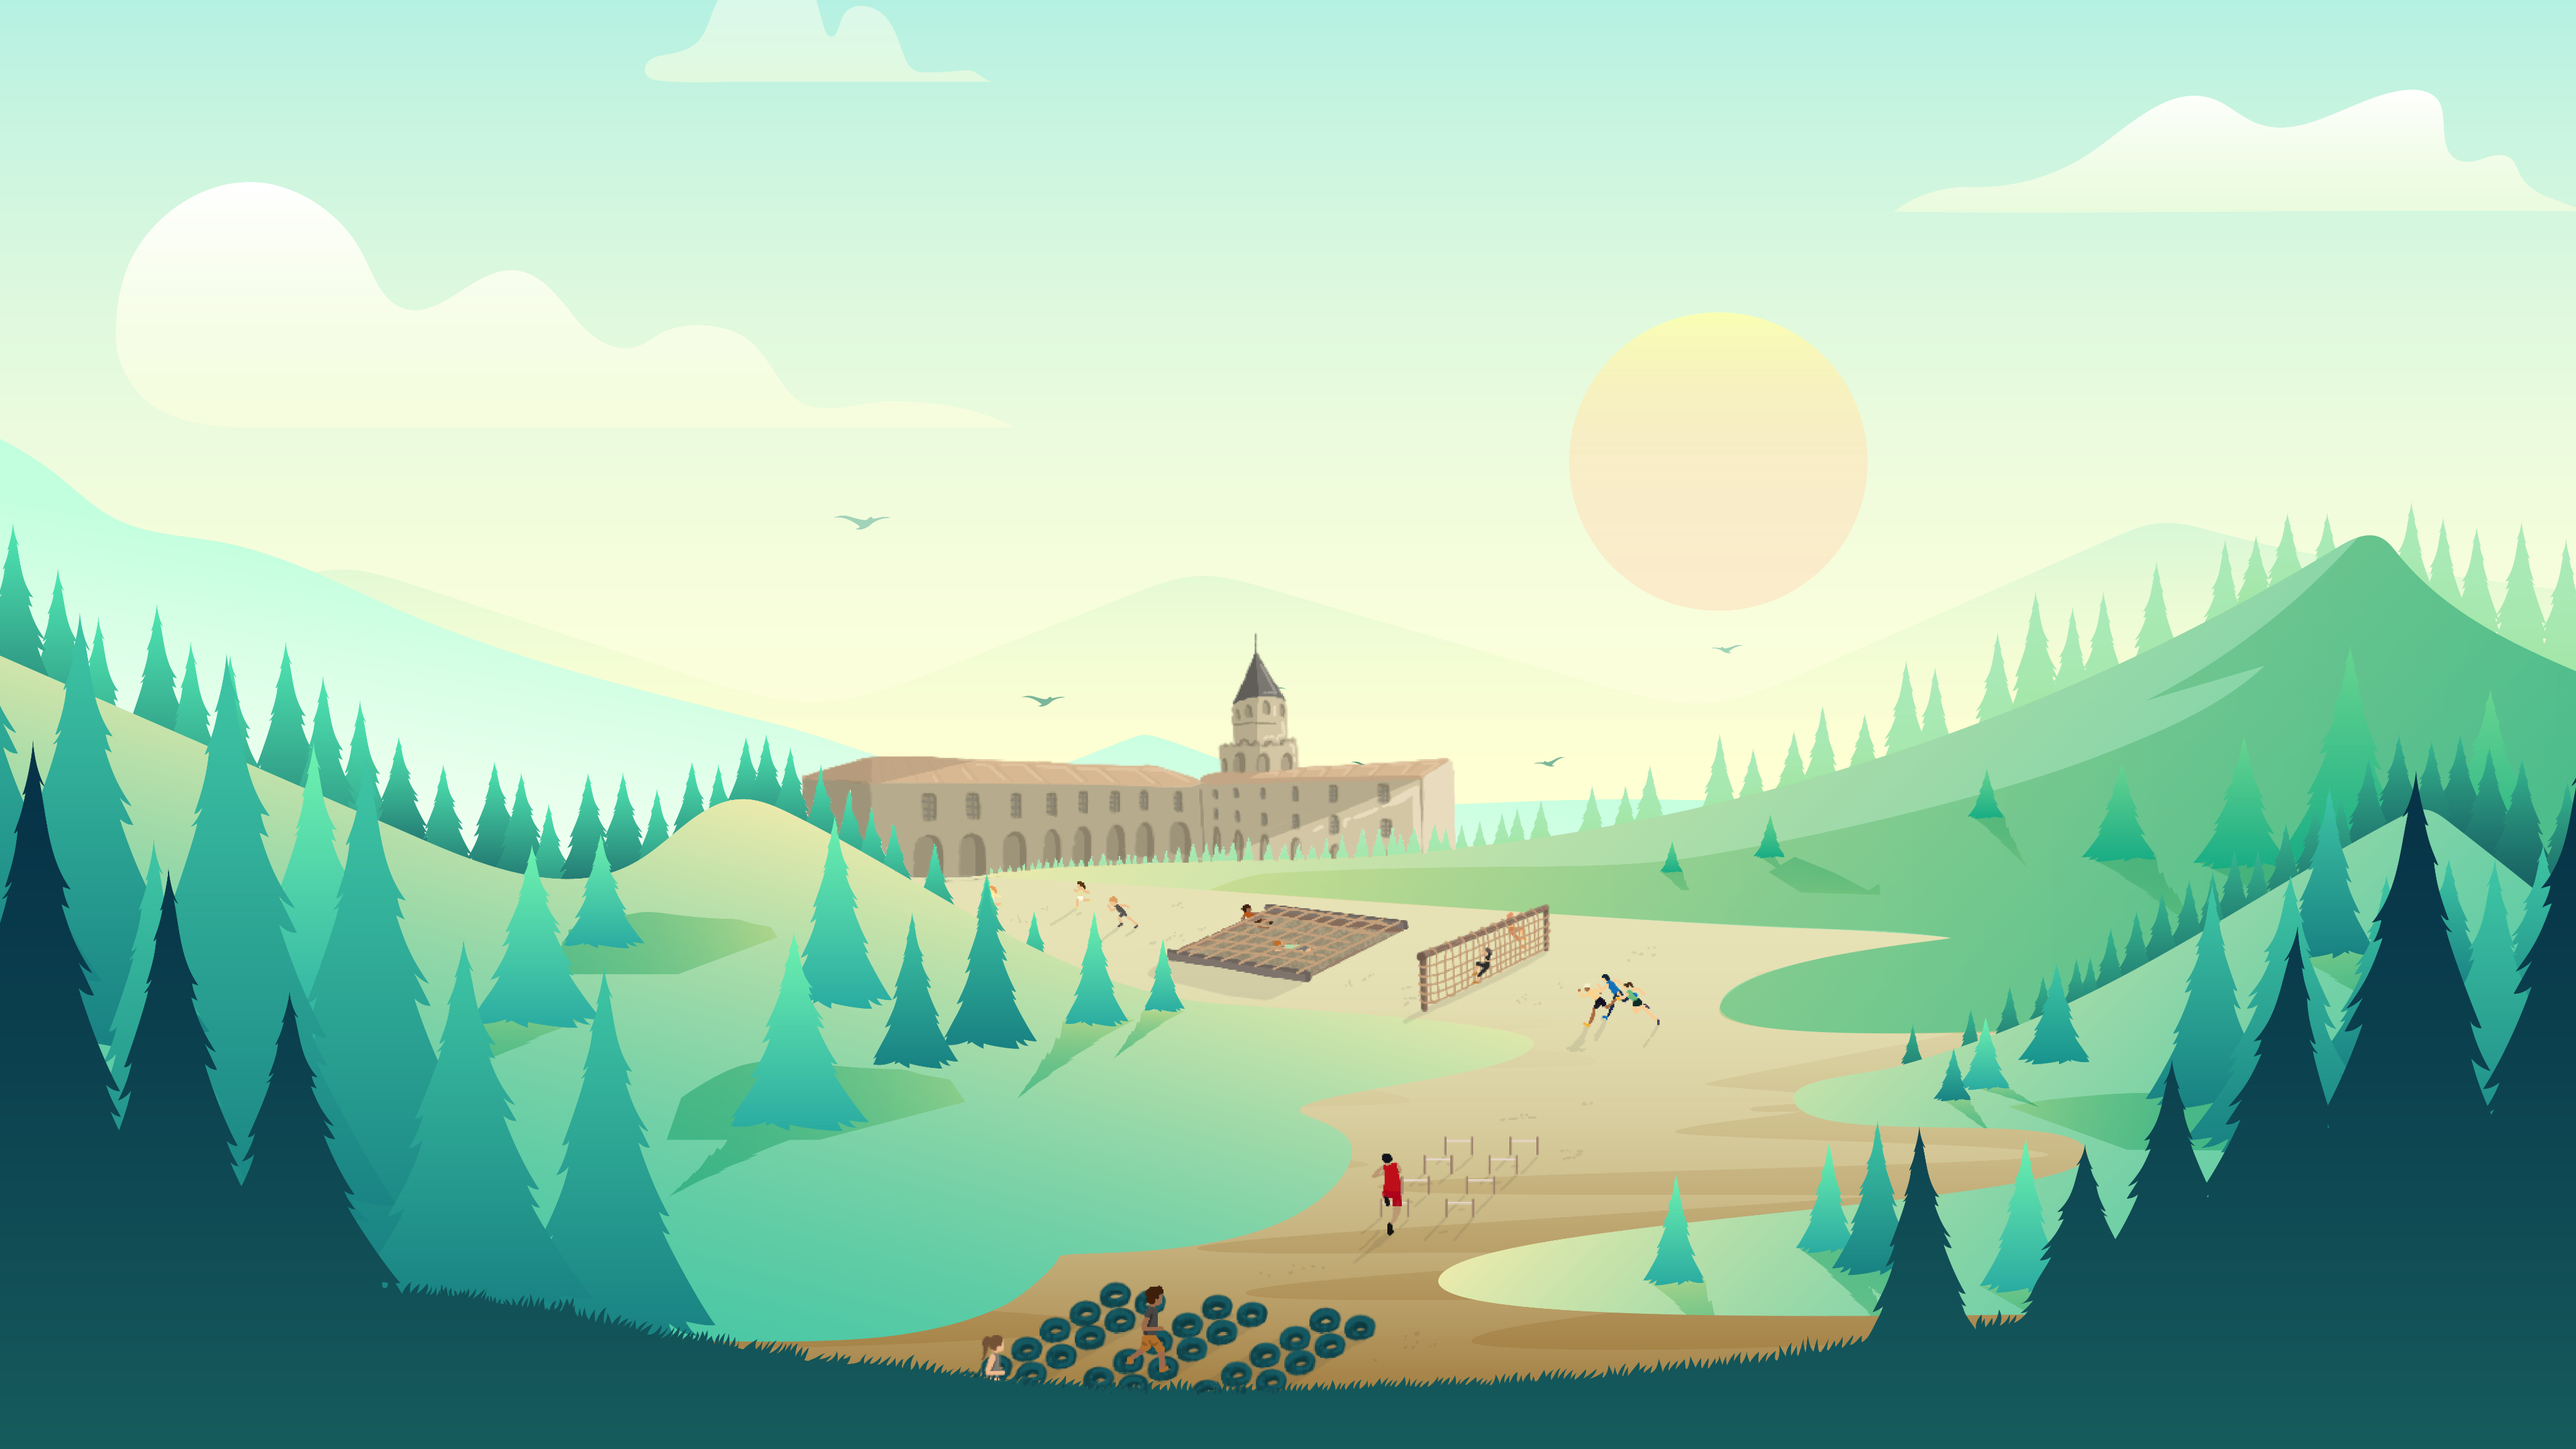
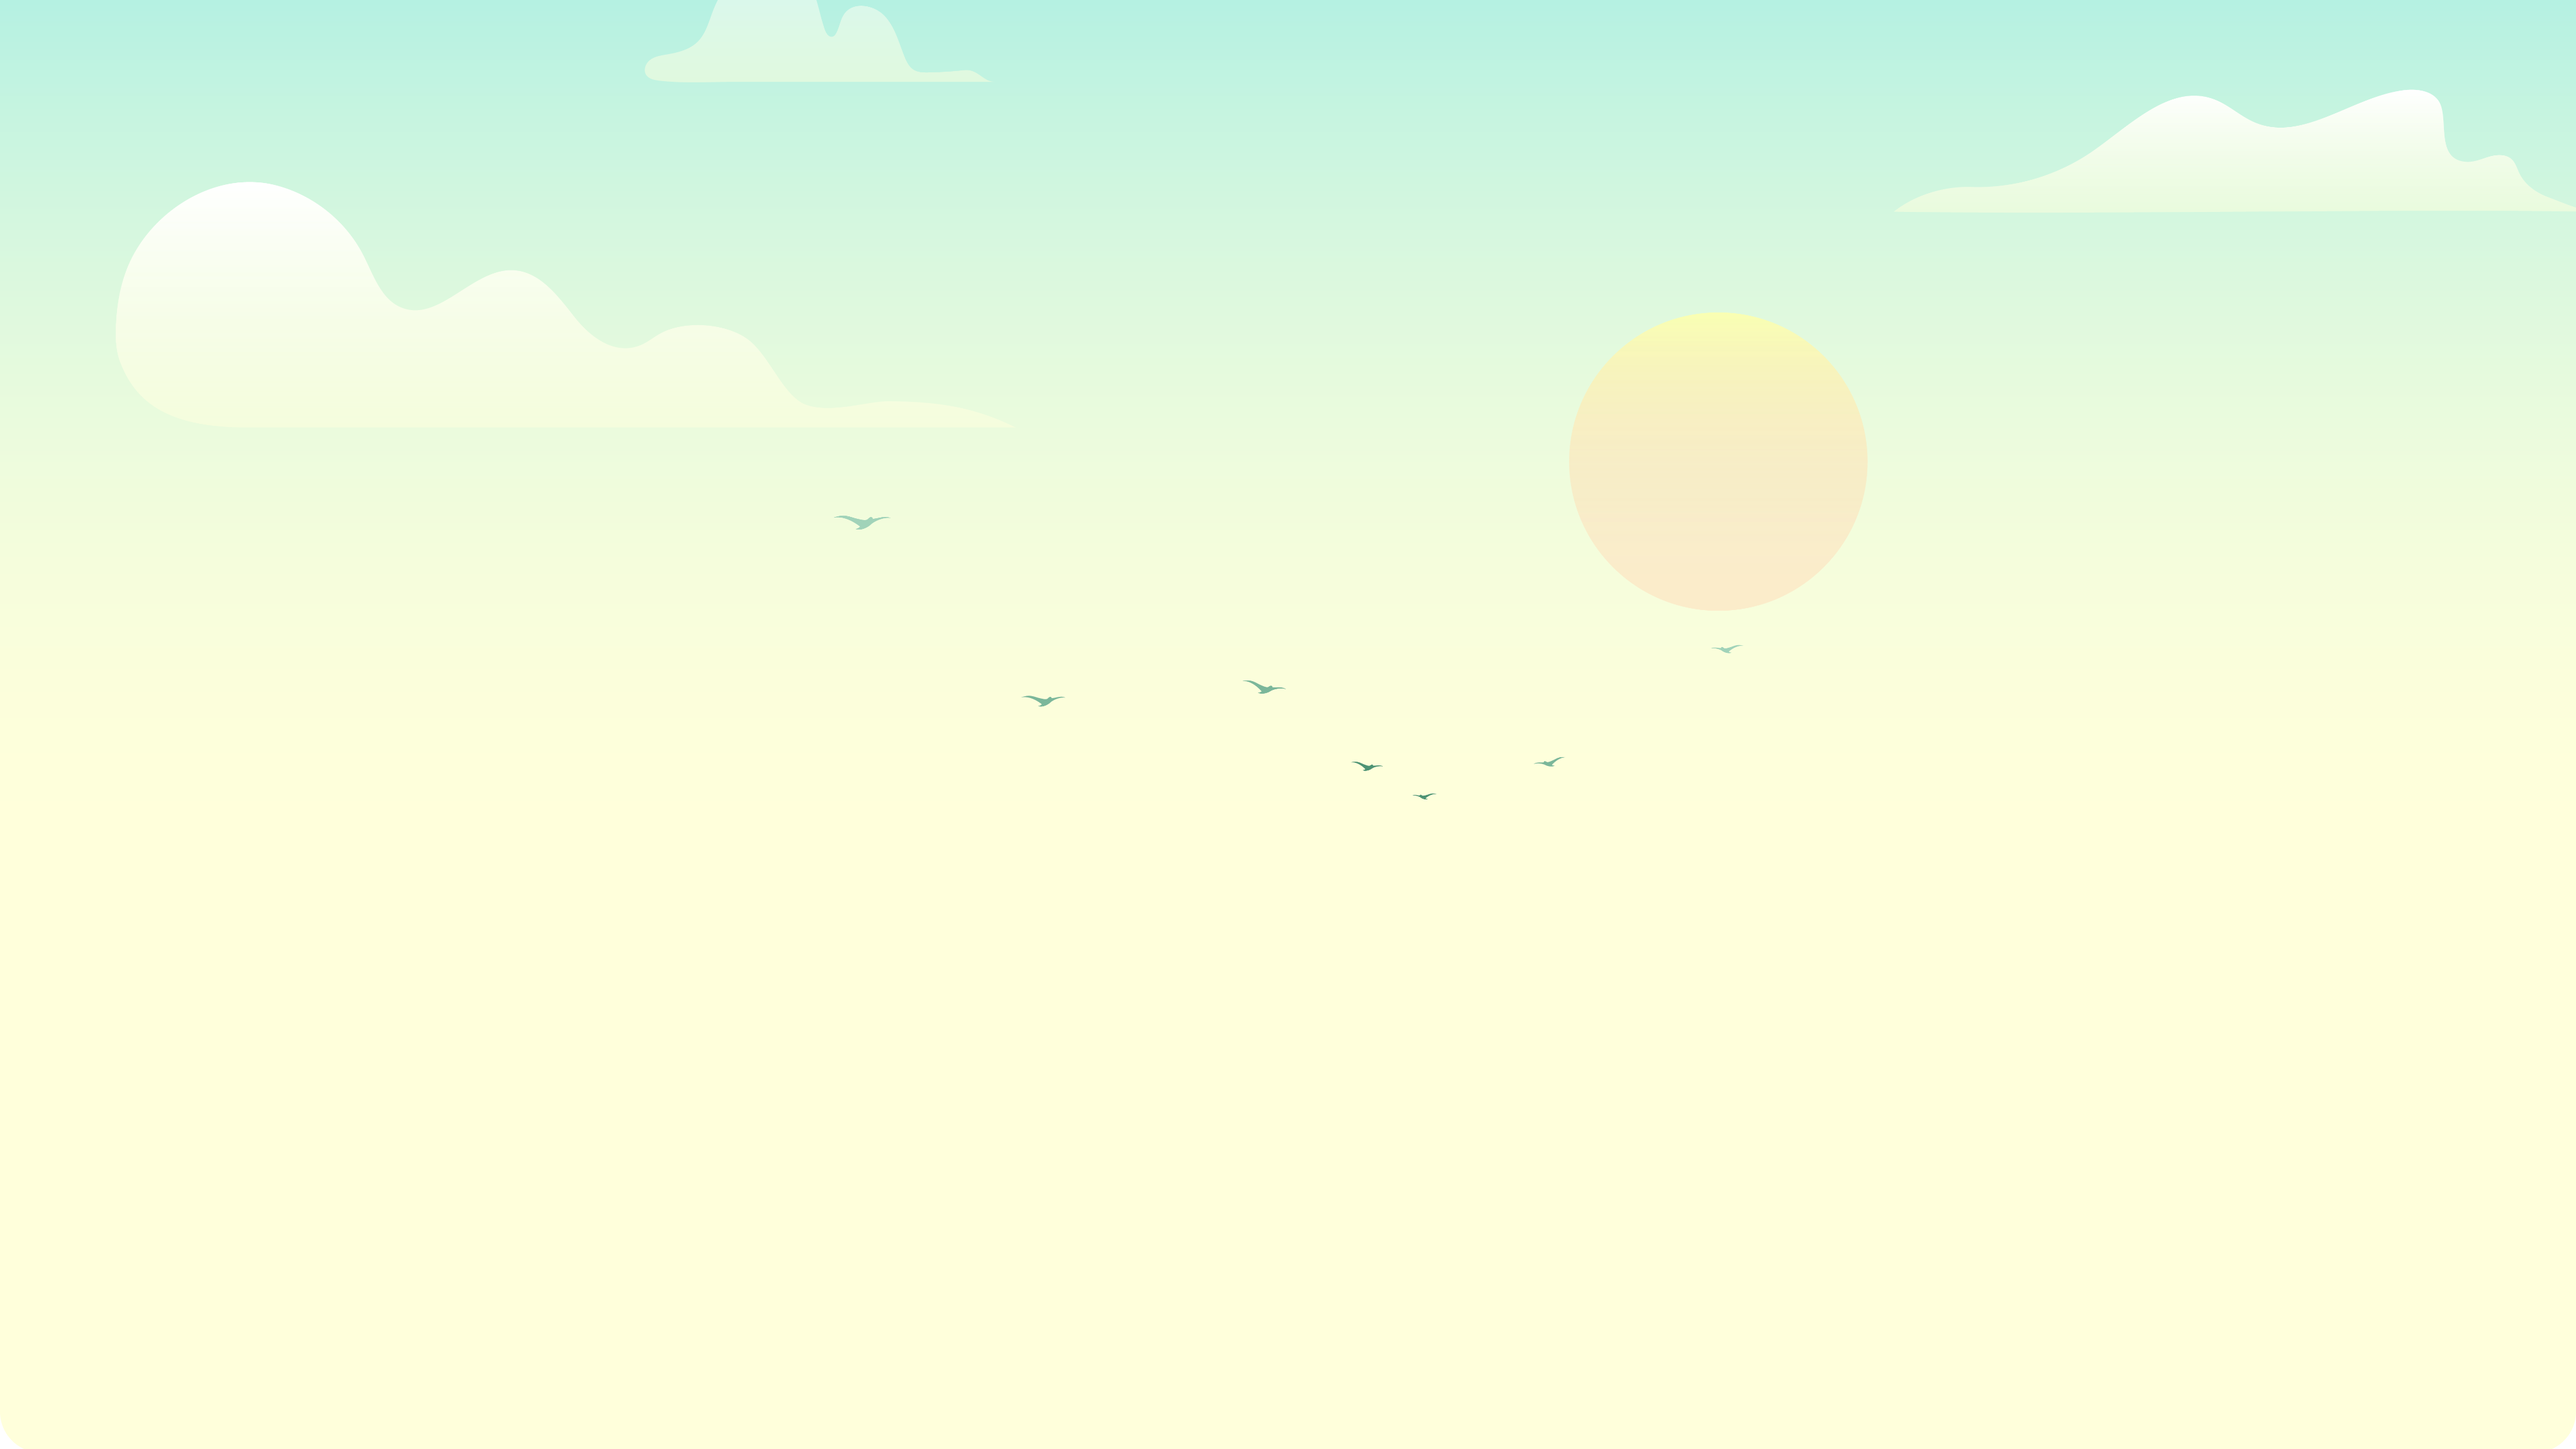
responsive improvement

diff --git a/components/sections/footer/footer.module.scss b/components/sections/footer/footer.module.scss
@@ -5,6 +5,10 @@
 	margin-top: $section-margin-top;
 	padding: $marge;
 	padding-bottom: 1rem;
+
+	@media screen and (max-width: 700px) {
+		padding: $marge-small;
+	}
 	// padding-top: 10rem;
 
 	&__item {
@@ -12,6 +16,11 @@
 		min-width: 400px;
 		max-width: 500px;
 		color: $text-color-light;
+
+		@media screen and (max-width: 930px) {
+			min-width: auto;
+			margin-bottom: 2rem;
+		}
 	}
 
 	&__title {
@@ -35,6 +44,12 @@
 	justify-content: space-between;
 	gap: $marge;
 	border-bottom: 1px solid $text-color-grey;
+
+	@media screen and (max-width: 700px) {
+		flex-direction: column;
+		gap: 2rem;
+		padding-bottom: 0;
+	}
 }
 
 .logo {
@@ -42,11 +57,17 @@
 }
 
 .description {
+	display: none;
 	margin-left: $marge;
 	color: $text-color-light;
 	width: 700px;
 	font-style: italic;
 	font-weight: 800;
+
+	@media screen and (max-width: 930px) {
+		width: 100%;
+		background-color: red;
+	}
 }
 
 .bottom {

diff --git a/components/sections/lieu/lieu-section.module.scss b/components/sections/lieu/lieu-section.module.scss
@@ -35,6 +35,11 @@
 	flex-direction: column;
 	padding: 10rem;
 	margin: $marge;
+
+	@media screen and (max-width: 700px) {
+		padding: $marge-small;
+		margin: $marge-small;
+	}
 	border-radius: 16px;
 	overflow: hidden;
 	margin-top: $section-margin-top;
@@ -51,12 +56,23 @@
 			object-fit: cover;
 
 			filter: brightness(0.5) saturate(1.5);
+
+			@media screen and (max-width: 700px) {
+				filter: brightness(0.3) saturate(1.5);
+			}
 		}
 	}
 
 	&__content {
 		color: $text-color-light;
 		width: 400px;
+
+		@media screen and (max-width: 700px) {
+			width: 90%;
+			color: white;
+			font-size: 1.5rem;
+			padding: 2rem 0;
+		}
 	}
 }
 

diff --git a/components/sections/tarif/tarif-section.module.scss b/components/sections/tarif/tarif-section.module.scss
@@ -46,6 +46,7 @@ $background-padding: 200px;
 	justify-content: space-between;
 	padding-top: 3rem;
 
+	gap: 2rem;
 	@media screen and (max-width: 900px) {
 		flex-direction: column;
 	}
@@ -66,7 +67,7 @@ $background-padding: 200px;
 
 	@media screen and (min-width: 900px) {
 		width: 100%;
-		marginb: 5rem;
+		margin-bottom: 5rem;
 		&:hover {
 			// border: 2px solid $accent;
 			transform: translateY(-5px);

diff --git a/components/sections/course/course.module.scss b/components/sections/course/course.module.scss
@@ -22,6 +22,8 @@
 
 	@media screen and (max-width: 600px) {
 		font-size: 4rem;
+		background-color: $accent;
+		color: white;
 	}
 }
 
@@ -129,6 +131,15 @@
 			top: 0;
 			left: 0;
 		}
+	}
+
+	@media screen and (max-width: 1200px) {
+		width: 400px;
+		height: 400px;
+	}
+
+	@media screen and (max-width: 900px) {
+		display: none;
 	}
 
 	&__img {

diff --git a/components/component/header/header.module.scss b/components/component/header/header.module.scss
@@ -29,7 +29,20 @@ $header-height: 100vh;
 .first-plan {
 	// background-color: red;
 	position: relative;
-	height: 100%;
+	height: 100vh;
+	width: 100vw;
+
+	:global {
+		img {
+			position: absolute;
+			top: 0;
+			left: 0;
+			width: 100vw;
+			height: 100vh;
+			object-fit: cover;
+			pointer-events: none;
+		}
+	}
 }
 
 // .second-plan {

diff --git a/components/sections/obstacles/obstacles-section.module.scss b/components/sections/obstacles/obstacles-section.module.scss
@@ -15,6 +15,16 @@
 	font-weight: $title-2-weight;
 	font-style: $title-2-style;
 	text-transform: $title-2-transformation;
+
+	@media screen and (max-width: 900px) {
+		font-size: $title-2-size-small;
+	}
+
+	@media screen and (max-width: 600px) {
+		font-size: 4rem;
+		background-color: $accent;
+		color: white;
+	}
 }
 
 .faq {

diff --git a/components/sections/sponsors/sponsors.module.scss b/components/sections/sponsors/sponsors.module.scss
@@ -25,4 +25,14 @@
 	font-weight: $title-2-weight;
 	font-style: $title-2-style;
 	text-transform: $title-2-transformation;
+
+	@media screen and (max-width: 900px) {
+		font-size: $title-2-size-small;
+	}
+
+	@media screen and (max-width: 600px) {
+		font-size: 4rem;
+		background-color: $accent;
+		color: white;
+	}
 }

diff --git a/components/sections/introduction/introduction-section.module.scss b/components/sections/introduction/introduction-section.module.scss
@@ -14,6 +14,13 @@
 	}
 }
 
+.trees {
+	position: absolute;
+	bottom: 100%;
+	width: 100%;
+	object-fit: cover;
+}
+
 .text {
 	font-weight: 900;
 	font-size: $text-huge-size;
